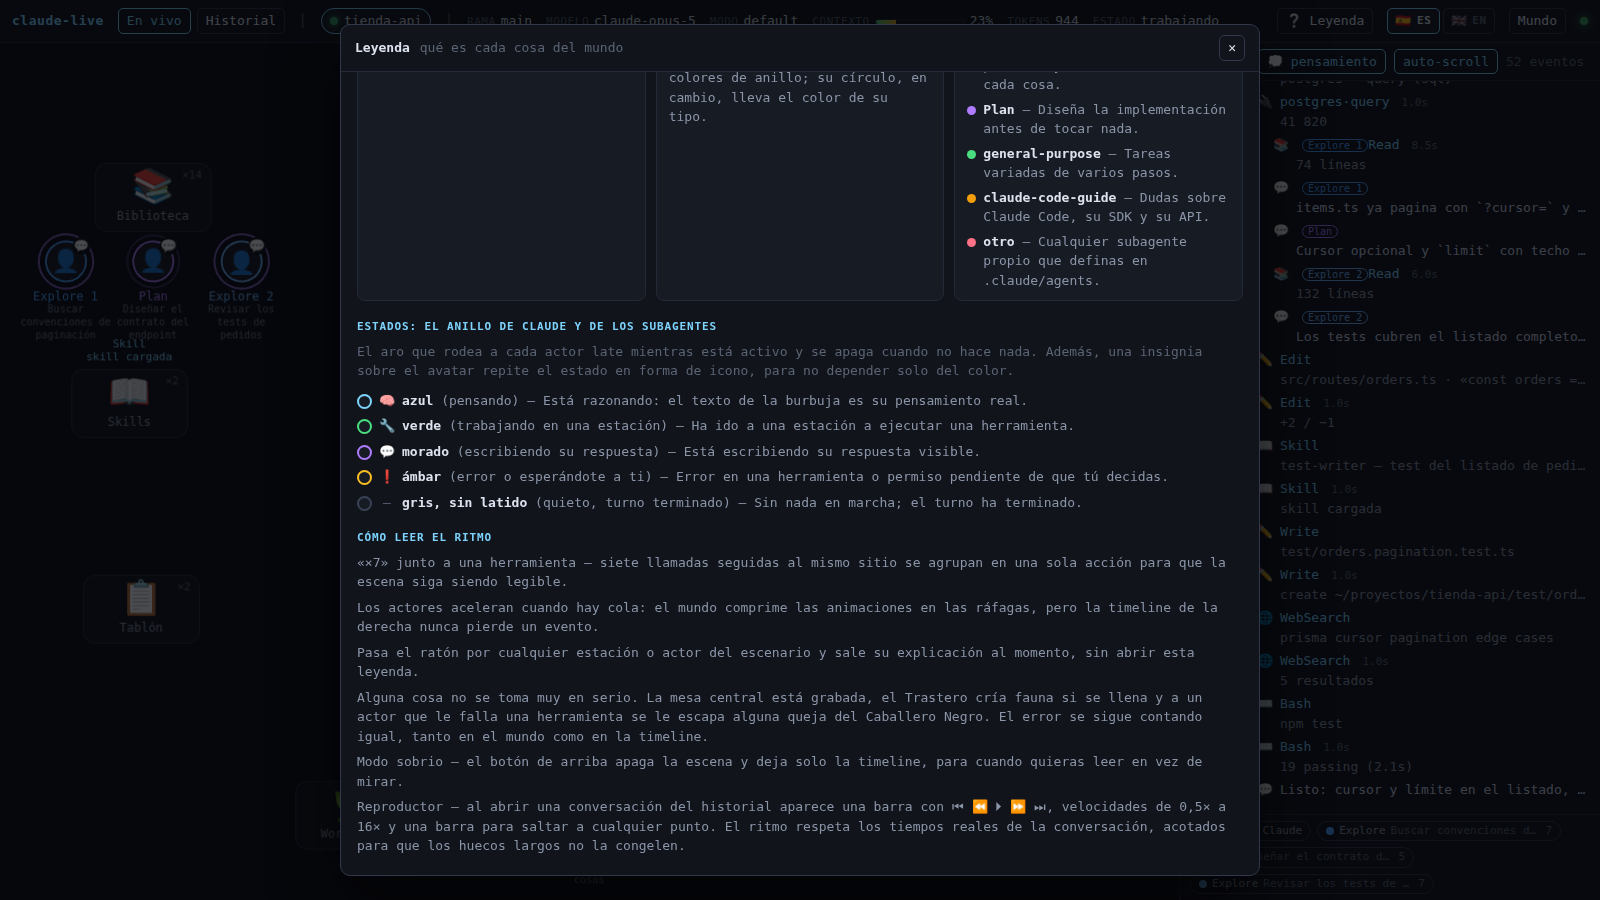
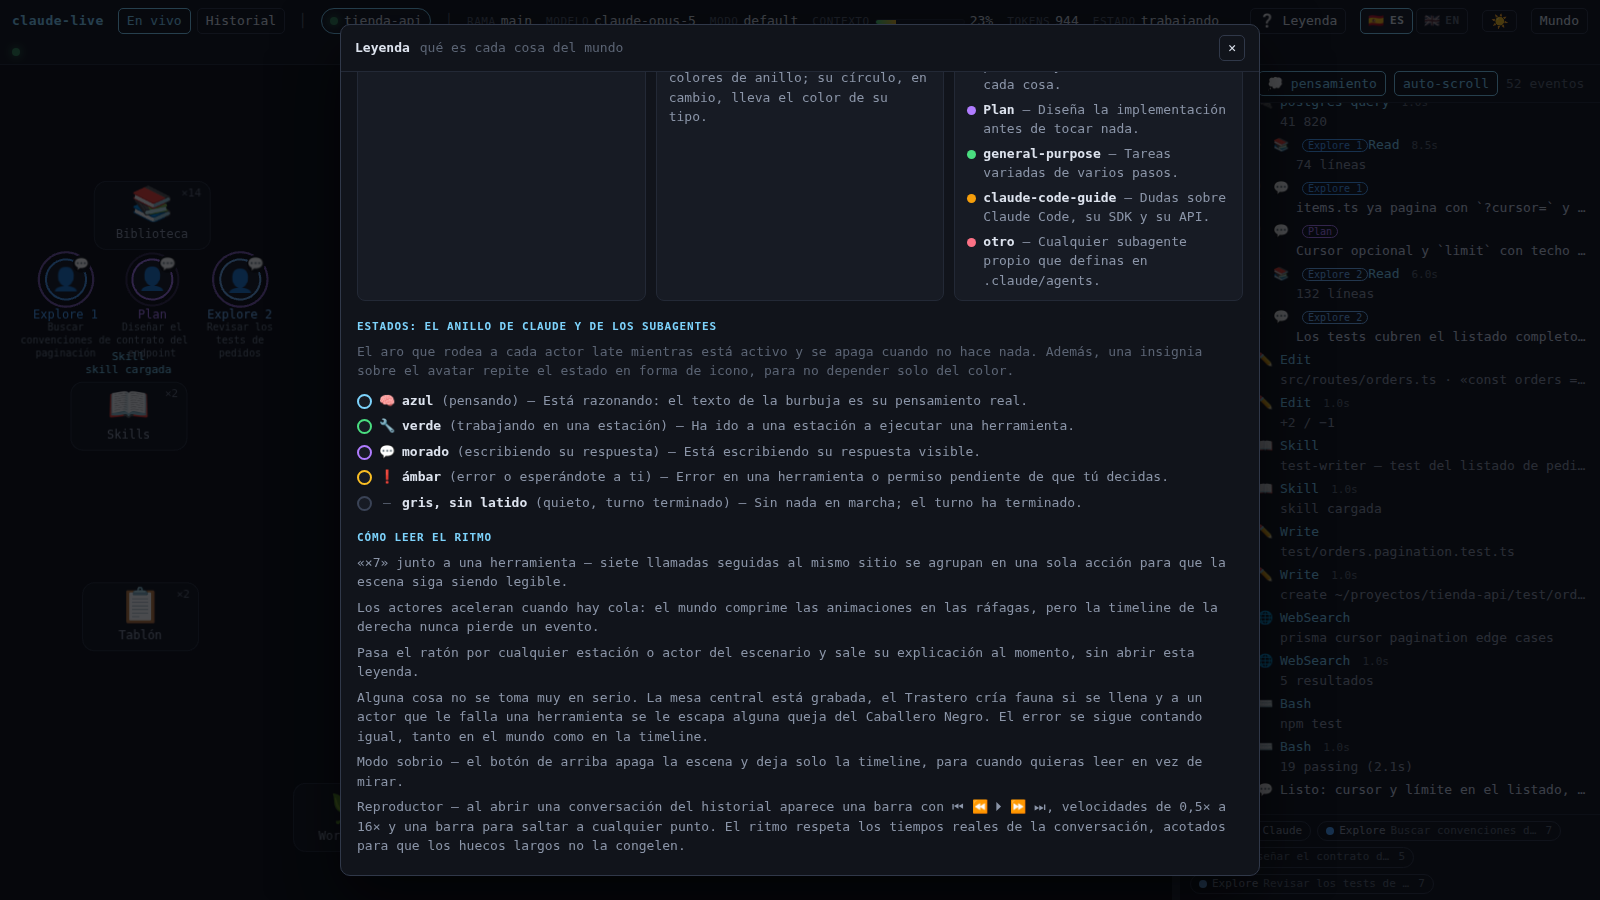
CHANGELOG.txt a la antigua, y capturas del árbol y del tema claro
Un registro de cambios en texto plano, sin markdown: lo nuevo arriba, `+`
novedad, `*` mejora, `!` corrección, y el commit corto al final de cada
línea. En castellano y en inglés, en el mismo fichero.

Las capturas del README venían saliendo en tema claro sin querer: Chromium
sin ventana prefiere el claro, así que la demo, las capturas y el GIF fijan
ahora `colorScheme: 'dark'` de forma explícita. La demo escribe además un
histórico ficticio (9 sesiones en 4 proyectos) para poder retratar el árbol,
y captura el mundo en tema claro comprobando que el botón hace su trabajo.

Y un afinado del tema claro: `inkFor` oscurece más cuanto más claro es el
tono de partida, porque el gris casi blanco de Claude se quedaba ilegible
sobre fondo claro. El sol del botón lleva su selector de variación, que sin
él se pintaba como un asterisco.

diff --git a/tools/demo-data.ts b/tools/demo-data.ts
@@ -301,6 +301,85 @@ async function selfProcStart(): Promise<string | undefined> {
   }
 }
 
+/**
+ * Sesiones «de otros días» en otros proyectos: solo ficheros de transcript, sin roster, para
+ * que el histórico tenga varios proyectos que agrupar en el árbol. Cada una son cuatro líneas,
+ * lo justo para que el índice saque proyecto, título, rama, modelo y fechas.
+ */
+const ARCHIVE: { cwd: string; branch: string; titles: string[] }[] = [
+  {
+    cwd: '/home/demo/proyectos/tienda-api',
+    branch: 'main',
+    titles: ['Migrar los pedidos a cursor', 'Revisar los índices de Postgres', 'Subir el SDK a la v3'],
+  },
+  {
+    cwd: '/home/demo/proyectos/web-clientes',
+    branch: 'rediseño',
+    titles: ['Rehacer la ficha de cliente', 'Quitar el bundle de iconos'],
+  },
+  {
+    cwd: '/home/demo/infra',
+    branch: 'main',
+    titles: ['Rotar los certificados', 'Alertas de disco en los nodos', 'Presupuesto del clúster'],
+  },
+  { cwd: '/home/demo/notas', branch: 'main', titles: ['Ordenar las notas de la semana'] },
+]
+
+/** Escribe el histórico ficticio. Devuelve cuántas sesiones ha dejado en disco. */
+async function writeArchive(dir: string, endedAt: number): Promise<number> {
+  let written = 0
+  for (const [p, project] of ARCHIVE.entries()) {
+    const slug = project.cwd.replace(/[^a-zA-Z0-9]/g, '-')
+    await mkdir(join(dir, 'projects', slug), { recursive: true })
+    for (const [t, title] of project.titles.entries()) {
+      // Fechas escalonadas hacia atrás: días distintos por proyecto y por sesión.
+      const started = endedAt - ((p + 1) * 3 + t) * 86_400_000
+      const sessionId = `dec0de00-0000-4000-8000-1${p}${t}000000000`.slice(0, 36)
+      const ctx: Ctx = { ts: started, parent: { main: null } }
+      const lines = [
+        {
+          uuid: randomUUID(),
+          parentUuid: null,
+          sessionId,
+          cwd: project.cwd,
+          gitBranch: project.branch,
+          version: '2.1.220',
+          isSidechain: false,
+          timestamp: next(ctx, 0),
+          type: 'user',
+          userType: 'external',
+          message: { role: 'user', content: [{ type: 'text', text: title }] },
+        },
+        {
+          uuid: randomUUID(),
+          parentUuid: null,
+          sessionId,
+          cwd: project.cwd,
+          gitBranch: project.branch,
+          version: '2.1.220',
+          isSidechain: false,
+          timestamp: next(ctx, 90),
+          type: 'assistant',
+          message: {
+            role: 'assistant',
+            model: MODEL,
+            usage: usage(3, 120, 18_000 + t * 4_000),
+            content: [{ type: 'text', text: 'Hecho.' }],
+          },
+        },
+        { type: 'ai-title', aiTitle: title, sessionId },
+      ]
+      await writeFile(
+        join(dir, 'projects', slug, `${sessionId}.jsonl`),
+        `${lines.map((line) => JSON.stringify(line)).join('\n')}\n`,
+        'utf8',
+      )
+      written++
+    }
+  }
+  return written
+}
+
 export interface DemoWorld {
   dir: string
   transcript: string
@@ -314,6 +393,9 @@ export async function writeDemoWorld(dir: string, past: DemoStep[]): Promise<Dem
   const subagentDir = join(projectDir, SESSION_ID, 'subagents')
   await mkdir(subagentDir, { recursive: true })
   await mkdir(join(dir, 'sessions'), { recursive: true })
+
+  const archived = await writeArchive(dir, Date.now())
+  console.log(`  histórico ficticio: ${archived} sesiones en ${ARCHIVE.length} proyectos`)
 
   const transcript = join(projectDir, `${SESSION_ID}.jsonl`)
   await writeFile(transcript, '', 'utf8')

diff --git a/tools/demo.ts b/tools/demo.ts
@@ -87,7 +87,12 @@ if (!(await waitForServer())) {
 
 const problems: string[] = []
 const browser = await chromium.launch()
-const page = await browser.newPage({ viewport: { width: 1600, height: 900 } })
+// `colorScheme` explícito: Chromium sin ventana prefiere el tema claro, y las capturas del
+// README son las del tema oscuro.
+const page = await browser.newPage({
+  viewport: { width: 1600, height: 900 },
+  colorScheme: 'dark',
+})
 page.on('pageerror', (error) => problems.push(`[pageerror] ${error.message}`))
 page.on('console', (message) => {
   if (message.type() === 'error') problems.push(`[error] ${message.text()}`)
@@ -147,6 +152,32 @@ for (const size of [
   await page.screenshot({ path })
   console.log(`  captura → ${path} (${size.width}×${size.height})`)
 }
+
+// Histórico en árbol: la vista que agrupa las sesiones por proyecto.
+await page.getByRole('button', { name: /Historial/ }).click()
+await page.locator('.history').waitFor({ state: 'visible' })
+await page.waitForTimeout(800)
+await page.getByRole('button', { name: /Árbol/ }).click()
+await page.getByRole('button', { name: /Abrir todo/ }).click()
+await page.waitForTimeout(400)
+const proyectos = await page.locator('.tree-node').count()
+const hojas = await page.locator('.tree-node li').count()
+console.log(`  árbol del histórico: ${proyectos} proyectos, ${hojas} sesiones`)
+await page.screenshot({ path: join(outDir, 'arbol.png') })
+console.log(`  captura → ${join(outDir, 'arbol.png')}`)
+
+// Y el mismo mundo en tema claro.
+await page.getByRole('button', { name: /En vivo/ }).click()
+await page.waitForTimeout(1200)
+await page.locator('.theme-toggle').click()
+await page.waitForTimeout(2200)
+const claro = await page.evaluate(() => document.documentElement.dataset.theme)
+if (claro !== 'light') throw new Error(`el botón del tema no dejó la página en claro: ${claro}`)
+console.log(`  tema aplicado: ${claro}`)
+await page.screenshot({ path: join(outDir, 'preview-claro.png') })
+console.log(`  captura → ${join(outDir, 'preview-claro.png')}`)
+await page.locator('.theme-toggle').click()
+await page.waitForTimeout(1200)
 
 await page.locator('.timeline-head button', { hasText: 'pensamiento' }).waitFor()
 await browser.close()

diff --git a/web/src/world/director.ts b/web/src/world/director.ts
@@ -4,6 +4,7 @@ import type { ActorMood } from './Actor'
 import { shouldMerge } from './grouping'
 import { tr } from '../i18n'
 import { summaryOf } from '../format'
+import { inkFor } from './palette'
 
 /**
  * El reloj del mundo.
@@ -63,7 +64,7 @@ export class Director {
     this.scene.ensureActor({
       id: USER_ID,
       emoji: '🧑',
-      color: 0xfacc15,
+      color: inkFor(0xfacc15),
       label: tr({ es: 'tú', en: 'you' }),
       subLabel: tr({ es: 'quien pide las cosas', en: 'the one who asks' }),
       at: 'desk',
@@ -73,7 +74,7 @@ export class Director {
     this.scene.ensureActor({
       id: MAIN_ID,
       emoji: '🤖',
-      color: 0xe5e7eb,
+      color: inkFor(0xe5e7eb),
       label: sessionLabel,
       subLabel: tr({ es: 'el agente principal', en: 'the main agent' }),
       radius: 28,

diff --git a/web/src/world/palette.ts b/web/src/world/palette.ts
@@ -116,6 +116,10 @@ export function palette(): Palette {
 export function inkFor(color: number): number {
   if (theme.value !== 'light') return color
   const channels = [(color >> 16) & 0xff, (color >> 8) & 0xff, color & 0xff]
-  const darker = channels.map((value) => Math.round(value * 0.62))
+  // Se oscurece más cuanto más claro es el tono de partida: un 38 % le sienta bien a los
+  // colores medios, pero el gris casi blanco de Claude quedaría ilegible sobre fondo claro.
+  const luma = (0.2126 * channels[0]! + 0.7152 * channels[1]! + 0.0722 * channels[2]!) / 255
+  const factor = 0.62 - 0.4 * Math.max(0, Math.min(1, (luma - 0.7) / 0.3))
+  const darker = channels.map((value) => Math.round(value * factor))
   return (darker[0]! << 16) | (darker[1]! << 8) | darker[2]!
 }

diff --git a/tools/screenshot.ts b/tools/screenshot.ts
@@ -43,7 +43,12 @@ async function shot(page: Page, name: string): Promise<void> {
 await mkdir(outDir, { recursive: true })
 
 const browser = await chromium.launch()
-const page = await browser.newPage({ viewport: { width: 1600, height: 900 } })
+// `colorScheme` explícito: Chromium sin ventana prefiere el tema claro, y las capturas del
+// README son las del tema oscuro.
+const page = await browser.newPage({
+  viewport: { width: 1600, height: 900 },
+  colorScheme: 'dark',
+})
 watch(page)
 
 console.log(`abriendo ${url}`)

diff --git a/web/src/components/Hud.vue b/web/src/components/Hud.vue
@@ -166,7 +166,7 @@ const statusLabel = computed(() => {
       </button>
     </div>
     <button class="theme-toggle" :title="tr(L.themeTitle)" @click="toggleTheme">
-      {{ theme === 'dark' ? '☀' : '🌙' }}
+      {{ theme === 'dark' ? '☀' : '🌙' }}
     </button>
     <button :class="{ active: state.soberMode }" @click="state.soberMode = !state.soberMode">
       {{ state.soberMode ? tr(L.sober) : tr(L.world) }}

diff --git a/tools/gif.ts b/tools/gif.ts
@@ -87,6 +87,7 @@ if (!ready) {
 console.log('grabando el mundo…')
 const browser = await chromium.launch()
 const context = await browser.newContext({
+  colorScheme: 'dark',
   viewport,
   locale: 'es-ES',
   recordVideo: { dir: videoDir, size: viewport },

diff --git a/README.md b/README.md
@@ -48,12 +48,29 @@ ficheros que Claude Code escribe en `~/.claude`.*
 
   ![Leyenda del mundo](docs/leyenda.png)
 
+- **Historial como tabla o como árbol** (conmutador `☰ Tabla` / `🌳 Árbol`): el árbol agrupa las
+  sesiones por proyecto, plegables, con cuántas hay y cuánto ocupan; los proyectos con sesión
+  viva salen primero y buscar despliega solo lo que coincide.
+
+  ![Historial en árbol](docs/arbol.png)
+
 - **Modo sobrio**: apaga la escena y deja solo la timeline, para cuando quieras leer en vez
   de mirar.
 - **Castellano e inglés**, con el conmutador 🇪🇸 ES / 🇬🇧 EN junto a la leyenda. La elección se
   recuerda entre visitas y traduce todo: el mundo (nombres de las estaciones, el grabado de la
   mesa, los caballeros) y también los resúmenes de la timeline, porque el servidor emite el
   dato («74 líneas» sale de `{ kind: 'lines', n: 74 }`) y el idioma se decide al pintarlo.
+- **Tema claro y oscuro**, con un botón (☀ / 🌙) al lado de los idiomas. Cambia también el
+  escenario: el canvas no hereda las variables CSS, así que la escena tiene su propia paleta
+  con el equivalente de cada tono. Los colores de estado y de tipo de subagente son los mismos
+  en los dos temas (verde trabajando, azul `Explore`), solo se oscurecen sobre fondo claro.
+  La primera vez se respeta la preferencia de tu sistema.
+
+  ![El mundo en tema claro](docs/preview-claro.png)
+
+- **Timeline de ancho ajustable**: arrastra el divisor entre el mundo y el panel para darle
+  el sitio que necesites (doble clic vuelve al ancho por omisión). Se recuerda, y al estrechar
+  la ventana se reajusta para que el mundo no se quede sin espacio.
 
 ## Requisitos
 
@@ -302,7 +319,7 @@ Las pruebas usan **tus propios transcripts**, no mocks, porque el riesgo real de
 proyecto es que el formato cambie o que aparezca un caso hostil:
 
 ```bash
-npm test           # parser + agrupación + store
+npm test           # parser + agrupación + store + unidades + divisor
 npm run typecheck  # vue-tsc
 ```
 
@@ -313,6 +330,8 @@ mensajes del servidor al store del front sin navegador, para cubrir lo que se ro
 silencio: eventos duplicados al reconectar el SSE y subagentes atribuidos a la sesión
 equivocada cuando hay dos abiertas. `test:stats` comprueba que los resúmenes con unidades se
 leen bien en los dos idiomas, con los resultados tal como los devuelven las herramientas.
+`test:split` acota el divisor de la timeline por los dos extremos: que el panel no se coma el
+escenario y que en una pantalla ancha se pueda ampliar de verdad.
 
 ### Mundo de demostración
 
@@ -337,8 +356,11 @@ ventana, informa de los errores de consola y guarda las capturas de las tres vis
 
 ## Estado y qué falta
 
-Funcionando: sesiones vivas, subagentes, timeline, inspector, historial con reproductor
-completo, aviso de retención, leyenda, modo sobrio, ingesta de hooks e interfaz bilingüe.
+Funcionando: sesiones vivas, subagentes, timeline (de ancho ajustable), inspector, historial en
+tabla o en árbol con reproductor completo, aviso de retención, leyenda, modo sobrio, tema claro
+y oscuro, ingesta de hooks e interfaz bilingüe.
+
+Lo que se va haciendo, resumido y en texto plano, está en [`CHANGELOG.txt`](CHANGELOG.txt).
 
 **Ojo con el historial**: Claude Code borra los transcripts pasados `cleanupPeriodDays` días
 (30 por omisión), así que lo que ves no es todo lo que has hecho, sino lo que sobrevive. El

diff --git a/README.en.md b/README.en.md
@@ -47,6 +47,12 @@ comes from the files Claude Code writes under `~/.claude`.*
 
   ![The world legend](docs/leyenda.png)
 
+- **History as a table or as a tree** (the `☰ Table` / `🌳 Tree` switch): the tree groups
+  sessions by project, collapsible, with how many there are and how much they take; projects
+  with a live session come first and searching expands only what matches.
+
+  ![History as a tree](docs/arbol.png)
+
 - **Plain mode**: turns the stage off and leaves only the timeline, for when you would rather
   read than watch.
 - **Castilian and English**, with the 🇪🇸 ES / 🇬🇧 EN switch next to the legend. The choice is
@@ -54,6 +60,17 @@ comes from the files Claude Code writes under `~/.claude`.*
   engraving, the knights) and the timeline summaries too, because the server emits the raw
   value ("74 lines" comes from `{ kind: 'lines', n: 74 }`) and the language is decided when it
   is drawn.
+- **Light and dark theme**, with one button (☀ / 🌙) next to the languages. The stage changes
+  too: a canvas does not inherit CSS variables, so the scene keeps its own palette with the
+  equivalent of every tone. State and subagent colours are the same in both themes (green
+  working, blue `Explore`), only darkened over a light background. The first time, your
+  system preference is honoured.
+
+  ![The world in light theme](docs/preview-claro.png)
+
+- **Resizable timeline**: drag the splitter between the world and the panel to give it the room
+  you need (double-click restores the default). It is remembered, and narrowing the window
+  readjusts it so the world is never squeezed out.
 
 ## Requirements
 
@@ -309,7 +326,7 @@ The tests use **your own transcripts**, not mocks, because the real risk in this
 format change or an unexpected hostile case:
 
 ```bash
-npm test           # parser + merging + store
+npm test           # parser + merging + store + units + splitter
 npm run typecheck  # vue-tsc
 ```
 
@@ -319,6 +336,8 @@ the representation does not eat steps. `test:store` applies server messages to t
 store without a browser, covering what breaks silently: duplicated events on SSE reconnect and
 subagents attributed to the wrong session when two are open. `test:stats` checks that summaries
 with units read correctly in both languages, using the results tools actually return.
+`test:split` bounds the timeline splitter from both ends: the panel must not eat the stage, and
+on a wide screen it must really be able to grow.
 
 ### Demo world
 
@@ -344,8 +363,11 @@ Chromium, reports console errors and saves screenshots of the three views.
 
 ## State and what is missing
 
-Working: live sessions, subagents, timeline, inspector, history with a complete player,
-retention warning, legend, plain mode, hook ingest and the bilingual interface.
+Working: live sessions, subagents, a resizable timeline, inspector, history as a table or a
+tree with a complete player, retention warning, legend, plain mode, light and dark theme, hook
+ingest and the bilingual interface.
+
+What has been done, summarised in plain text, lives in [`CHANGELOG.txt`](CHANGELOG.txt).
 
 **A warning about the history**: Claude Code deletes transcripts after `cleanupPeriodDays` days
 (30 by default), so what you see is not everything you have done but whatever survived. The
